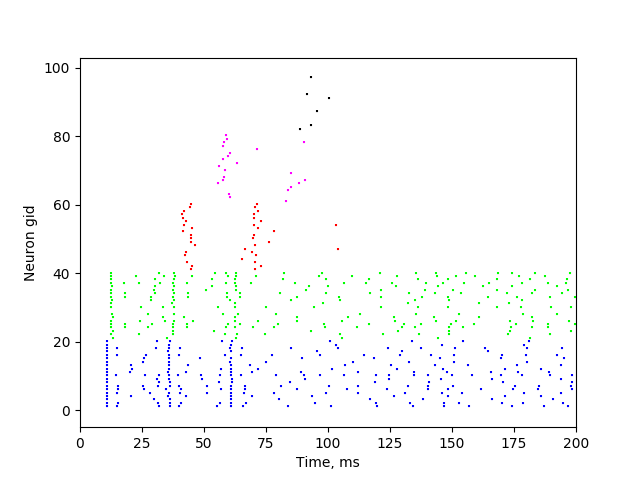
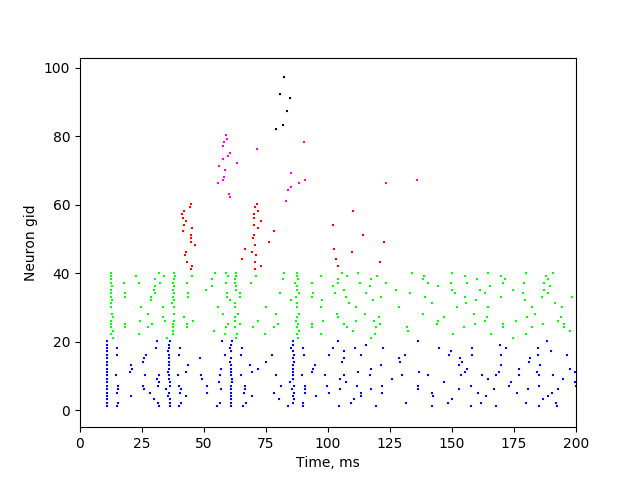
New weight for 2-3 spike simulation

diff --git a/ideas/neuron_group_filtration_test/src/topology.py b/ideas/neuron_group_filtration_test/src/topology.py
@@ -30,7 +30,7 @@ left_3 = nest.Create(
     params={'C_m': 100., 'V_m': -70., 'E_L': -70., 'tau_syn_ex': .5, 'tau_syn_in': 1.1, 't_ref': 2.})
 
 
-n_spikes = 3
+n_spikes = 4
 spike_times = [10. + i * 25. for i in range(n_spikes)]
 ees = nest.Create(
     model='spike_generator',
@@ -78,8 +78,8 @@ nest.Connect(
     post=right_3,
     syn_spec={
         'model': 'static_synapse',
-        'delay': 10.,
-        'weight': 30.5
+        'delay': 1.,
+        'weight': 30.7
     },
     conn_spec={
         'rule': 'fixed_indegree',
